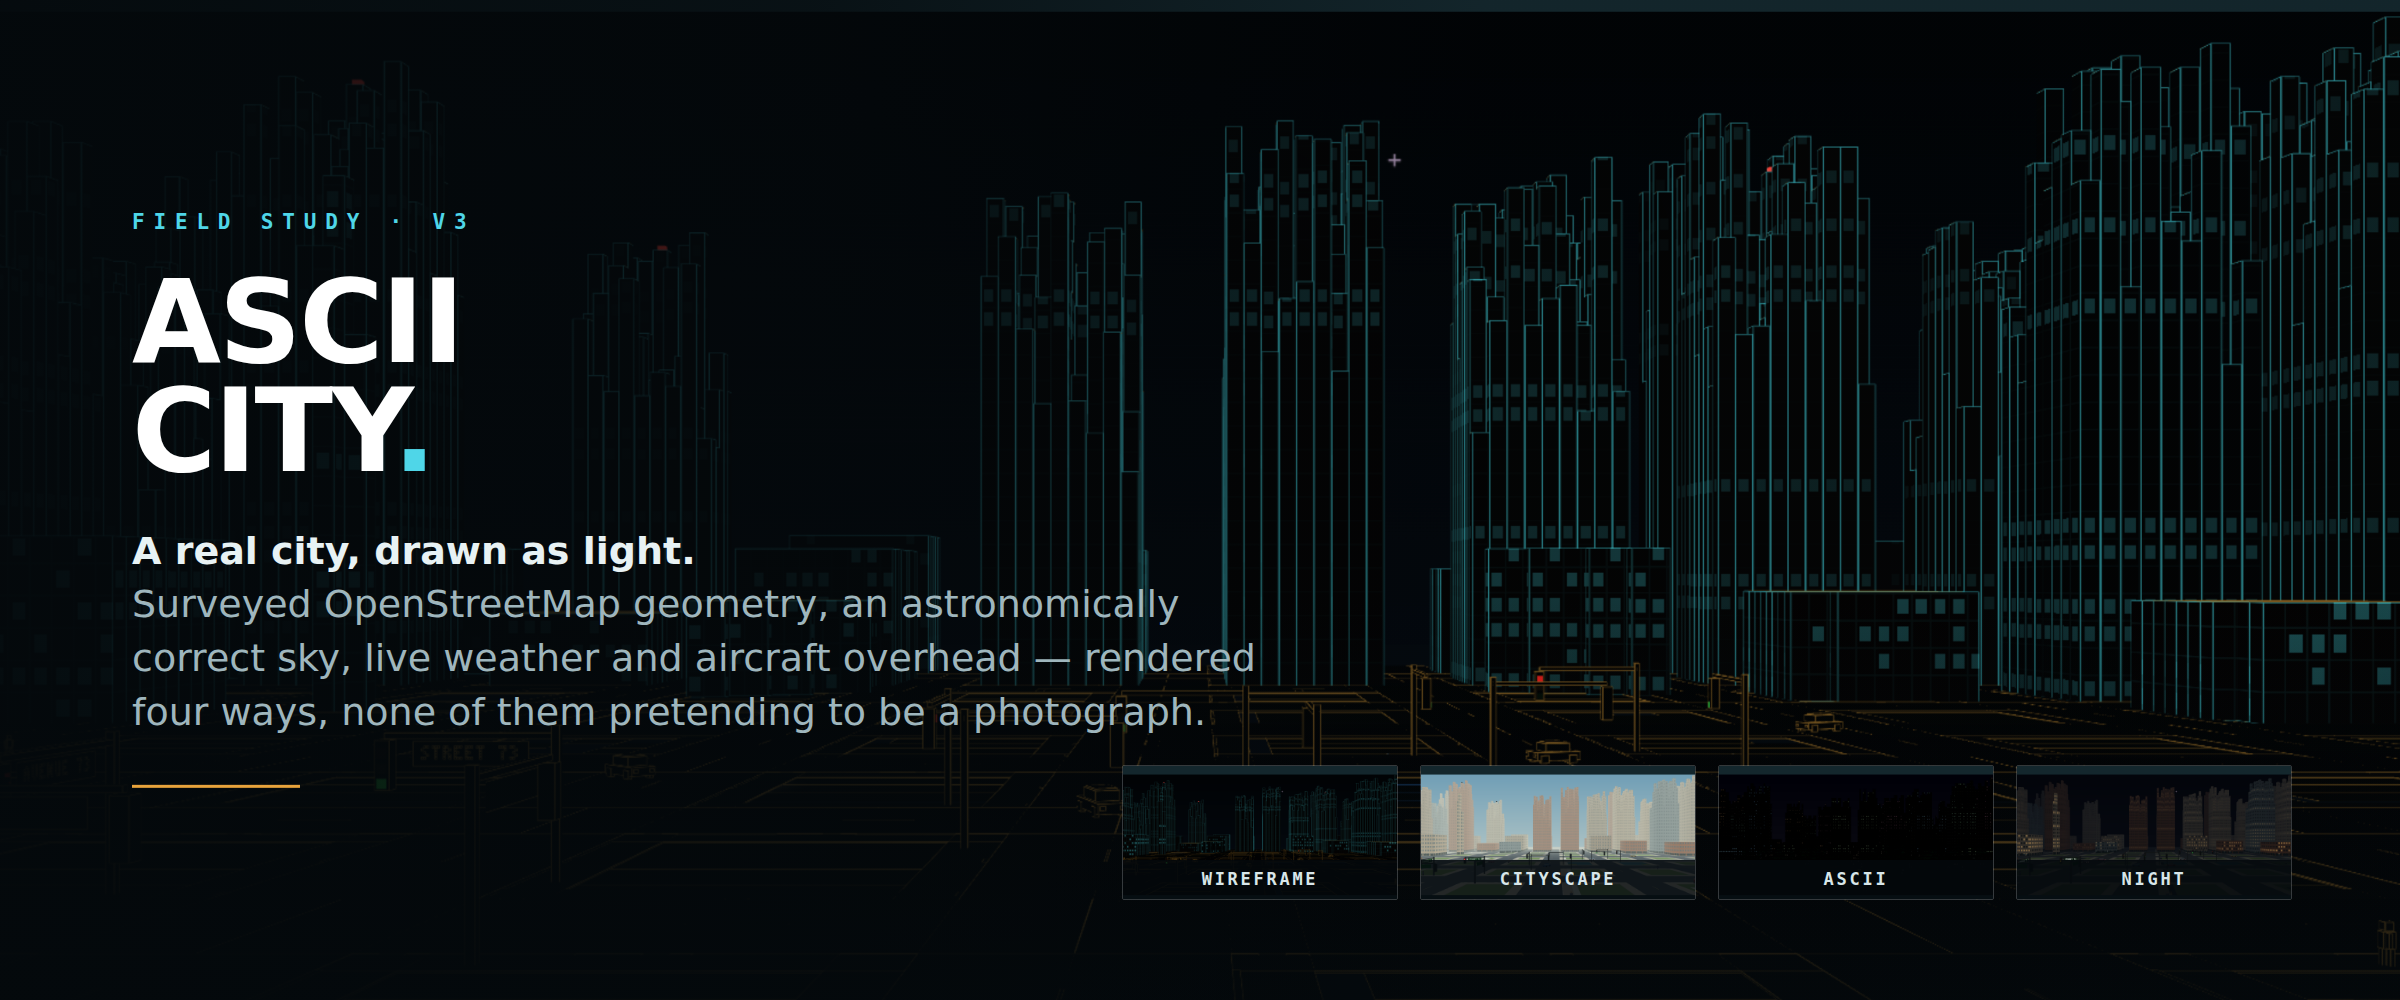
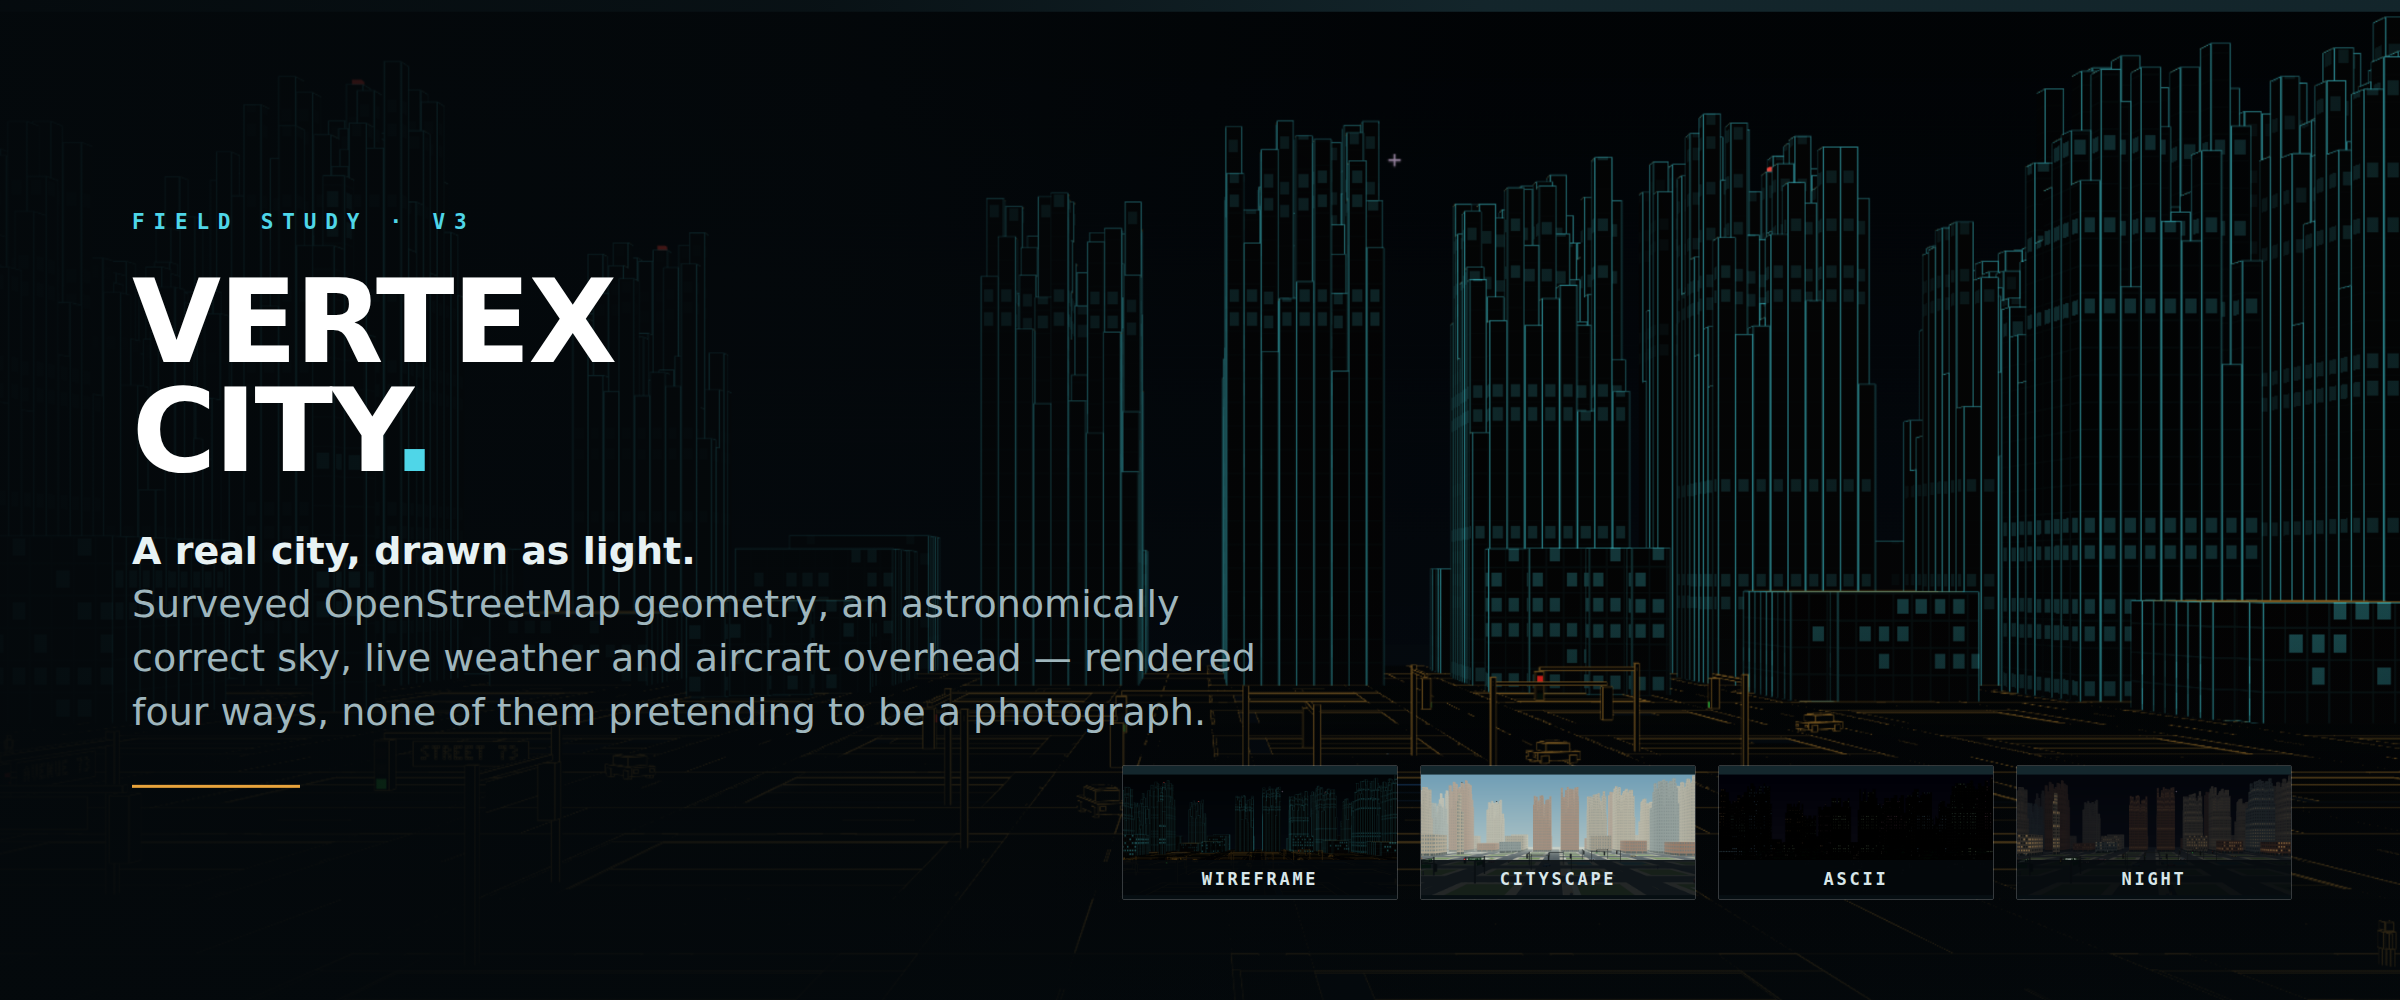
Rename the project to Vertex City
The name now describes what this is. ASCII is one of four render modes and
the least representative: the two that carry the project are built on a real
vertex pipeline, and that is what the name should say.

The product name changes everywhere. The ASCII render mode keeps its own
name, since that is a mode and not the product. References to ASCII City and
ASCII City 2 stay where they are historical, because those repositories
still exist and the lineage is real.

Provider identification is updated with it. Nominatim and Overpass both
require a user agent that names the application and gives a way to reach its
author, so those strings now point at the repository that will exist rather
than one that will not.

Two things are deliberately left alone. The Cloudflare Worker is still named
ascii-city-2: renaming it would create a new worker at a new URL and orphan
the deployed one, which is a deployment decision rather than a rename. And
localStorage prefixes did move, which quietly discards cached geocoder and
Wikipedia lookups and any saved radio station. Both are caches that refill;
the saved station is a small real loss and is the price of the rename.

Hero and social preview regenerated with the new wordmark.

Changed region(s): [[0.0312, 0.279, 0.25, 0.372]]

diff --git a/index.html b/index.html
@@ -1,8 +1,8 @@
 <!doctype html>
-<html lang="en"><head><meta charset="utf-8"><meta name="viewport" content="width=device-width,initial-scale=1"><meta name="theme-color" content="#17272b"><title>ASCII City 3.0 / Streets worth exploring</title><link rel="stylesheet" href="styles.css"></head>
+<html lang="en"><head><meta charset="utf-8"><meta name="viewport" content="width=device-width,initial-scale=1"><meta name="theme-color" content="#17272b"><title>Vertex City 3.0 / Streets worth exploring</title><link rel="stylesheet" href="styles.css"></head>
 <body>
 <canvas id="geometry" aria-hidden="true"></canvas><canvas id="c" tabindex="0" aria-label="Explore the city. WASD to move; drag to look; V to fly."></canvas>
-<header class="topbar"><a class="brand" href="./"><span class="brand-mark">▥</span> ASCII CITY <small>3.0 / FIELD STUDY</small></a><nav aria-label="Explore controls"><button id="open-city" aria-expanded="false" aria-controls="hud">⌖ <span id="place-title">Procedural City</span><span class="chevron">⌄</span></button><button id="open-layers" aria-expanded="false" aria-controls="hud">◫ Layers <span id="layer-count">0</span></button><button id="open-view" aria-expanded="false" aria-controls="hud">◐ View</button></nav><button id="help-toggle" aria-label="Open exploration guide" aria-expanded="false" aria-controls="guide">?</button></header>
+<header class="topbar"><a class="brand" href="./"><span class="brand-mark">▥</span> VERTEX CITY <small>3.0 / FIELD STUDY</small></a><nav aria-label="Explore controls"><button id="open-city" aria-expanded="false" aria-controls="hud">⌖ <span id="place-title">Procedural City</span><span class="chevron">⌄</span></button><button id="open-layers" aria-expanded="false" aria-controls="hud">◫ Layers <span id="layer-count">0</span></button><button id="open-view" aria-expanded="false" aria-controls="hud">◐ View</button></nav><button id="help-toggle" aria-label="Open exploration guide" aria-expanded="false" aria-controls="guide">?</button></header>
 <div class="scene-caption"><span id="source-badge">FICTIONAL CITY</span><span id="lighting-badge">DAYLIGHT STUDY</span></div>
 <aside id="hud" hidden aria-label="City settings"><div class="panel-heading"><h1 id="panel-title">Find your next street.</h1><button id="close-panel" aria-label="Close settings">×</button></div>
 <section data-panel="city"><p class="intro-copy">A real place. A different perspective.</p><label for="coords">City, coordinates, or OpenStreetMap link</label><div class="search-row"><input id="coords" placeholder="Paris, France" autocomplete="off" spellcheck="false"><button id="go">Explore ↗</button></div><label for="city">Or choose a starting point</label><select id="city"></select><p class="note">Real streets and footprints come from OpenStreetMap. Missing heights are estimated. Colors, windows, and street furniture are artistic interpretations.</p><div id="attrib" role="status" aria-live="polite"></div></section>

diff --git a/src/runtime-config.js b/src/runtime-config.js
@@ -1,7 +1,7 @@
-import deployment from '../ascii-city.config.js';
+import deployment from '../vertex-city.config.js';
 
 /** Where a runtime Worker choice is remembered, per browser. */
-const OVERRIDE_KEY = 'ascii-city:worker-url:1';
+const OVERRIDE_KEY = 'vertex-city:worker-url:1';
 
 /** Normalize an optional HTTP(S) service base without accepting other schemes. */
 export function serviceBase(value) {
@@ -18,7 +18,7 @@ export function serviceBase(value) {
  *
  * `?worker=<url>` selects one and remembers it for this browser; `?worker=`
  * with an empty value forgets it. This is how local development and a fork
- * that has not edited `ascii-city.config.js` reach live aircraft and camera
+ * that has not edited `vertex-city.config.js` reach live aircraft and camera
  * data. Nothing is inherited by a clone: the value lives only in the browser
  * that set it, never in the repository.
  */

diff --git a/src/world/overpass.js b/src/world/overpass.js
@@ -57,15 +57,15 @@ const COOL_RATE_MS = 60 * 1000;
 const COOL_EMPTY_MS = 6 * 60 * 60 * 1000;
 
 /** Success, by contrast, is worth remembering across a reload. */
-const GOOD_KEY = 'ascii-city:overpass-good:1';
+const GOOD_KEY = 'vertex-city:overpass-good:1';
 const GOOD_TTL_MS = 6 * 60 * 60 * 1000;
 
 // Some instances rate-limit requests that arrive without a meaningful
 // User-Agent. Browsers set their own and silently ignore this header; it is
 // here so the engine is a good citizen when driven from Node, in tests and
 // from tools/.
-const UA = 'ascii-city/0.3 (+https://github.com/tweakyourpc/ascii-city)';
-const CACHE_PREFIX = 'ascii-city:osm:';
+const UA = 'vertex-city/3.0 (+https://github.com/tweakyourpc/vertex-city)';
+const CACHE_PREFIX = 'vertex-city:osm:';
 const CACHE_VERSION = 2;
 
 /** Largest bbox we will ask for, in square degrees. About 2km x 2km at 40N. */

diff --git a/src/geocode.js b/src/geocode.js
@@ -19,7 +19,7 @@ import { boxAround, DEFAULT_SPAN_DEG } from './world/overpass.js';
  */
 
 const CACHE = new Map();                 // query -> result | null
-const LS_PREFIX = 'ascii-city:geo:1:';
+const LS_PREFIX = 'vertex-city:geo:1:';
 const TTL_MS = 30 * 24 * 3600 * 1000;
 const TIMEOUT_MS = 8000;
 
@@ -28,7 +28,7 @@ let coolUntil = 0;
 let inFlight = null;
 
 /** Identify the app, as Nominatim's usage policy asks. Browsers send Referer. */
-const UA = 'ascii-city/1.1 (+https://github.com/tweakyourpc/ascii-city)';
+const UA = 'vertex-city/3.0 (+https://github.com/tweakyourpc/vertex-city)';
 
 const norm = (q) => String(q).trim().toLowerCase().replace(/\s+/g, ' ');
 

diff --git a/src/wiki.js b/src/wiki.js
@@ -14,7 +14,7 @@ const CACHE = new Map();              // key -> { text } | null
 // Version 3 invalidates the old bare-name search cache. Those searches had no
 // geographic constraint, so a Sarasota building could retain a Miami article
 // for 30 days. Only explicit OSM wikipedia/wikidata links are cached now.
-const LS_PREFIX = 'ascii-city:wiki:3:';
+const LS_PREFIX = 'vertex-city:wiki:3:';
 const TTL_MS = 30 * 24 * 3600 * 1000;
 const TIMEOUT_MS = 6000;
 const MAX_CHARS = 600;

diff --git a/src/hud.js b/src/hud.js
@@ -5,7 +5,7 @@ import { formatCityTime } from './clock.js';
 
 const escapeHtml = (s) => String(s)
   .replace(/&/g, '&amp;').replace(/</g, '&lt;').replace(/>/g, '&gt;');
-const HUD_LAYOUT_KEY = 'ascii-city:hud-layout:3';
+const HUD_LAYOUT_KEY = 'vertex-city:hud-layout:3';
 const clamp = (v, lo, hi) => Math.max(lo, Math.min(hi, v));
 
 /** Build the shareable hash. LIVE views omit time; SIM views carry an instant. */

diff --git a/src/world/streets.js b/src/world/streets.js
@@ -4,7 +4,7 @@ import { buildRoadGraph } from './roadgraph.js';
 import { buildSemanticIndex } from '../spatial.js';
 
 /**
- * ASCII City v2: the street network, and nothing else.
+ * Vertex City v2: the street network, and nothing else.
  *
  * v1 rasterized buildings into a height field and raycast it. v2 throws the
  * height field away: the world is flat (h = 0 everywhere) and the renderer

diff --git a/test/runtime-config.test.js b/test/runtime-config.test.js
@@ -2,7 +2,7 @@ import assert from 'node:assert/strict';
 import test from 'node:test';
 
 import { serviceBase, WORKER_URL, workerOverride } from '../src/runtime-config.js';
-import { workerUrlForHost } from '../ascii-city.config.js';
+import { workerUrlForHost } from '../vertex-city.config.js';
 
 test('a clean clone has no inherited Worker endpoint', () => {
   assert.equal(WORKER_URL, '');

diff --git a/src/render/streets.js b/src/render/streets.js
@@ -3,7 +3,7 @@ import { fogOf } from './materials.js';
 import { cameraEnvelope, semanticCandidates } from '../spatial.js';
 
 /**
- * The street renderer for ASCII City v2.
+ * The street renderer for Vertex City v2.
  *
  * v1 painted roads as a textured floor of `=`/`-` glyphs, which reads as noise
  * rather than lines. v2 draws the road network as projected polylines: each OSM

diff --git a/src/radio.js b/src/radio.js
@@ -10,7 +10,7 @@ export const RADIO_RADIUS_KM = 150;
 const RADIO_LIMIT = 12;
 const DIRECTORY_LIMIT = 300;
 const DIRECTORY_HOST = 'https://de1.api.radio-browser.info';
-const SELECTION_PREFIX = 'ascii-city:radio-selection:1:';
+const SELECTION_PREFIX = 'vertex-city:radio-selection:1:';
 
 export function distanceKm(lat1, lon1, lat2, lon2) {
   const rad = Math.PI / 180;

diff --git a/tools/render-frame.js b/tools/render-frame.js
@@ -1,5 +1,5 @@
 /**
- * Render one frame of ASCII City v2 to stdout as text, with no browser.
+ * Render one frame of Vertex City v2 to stdout as text, with no browser.
  *
  * v2 draws buildings (height-field raycaster) with the clean street network
  * overlaid as projected polylines, so this tool exercises the full pipeline:
